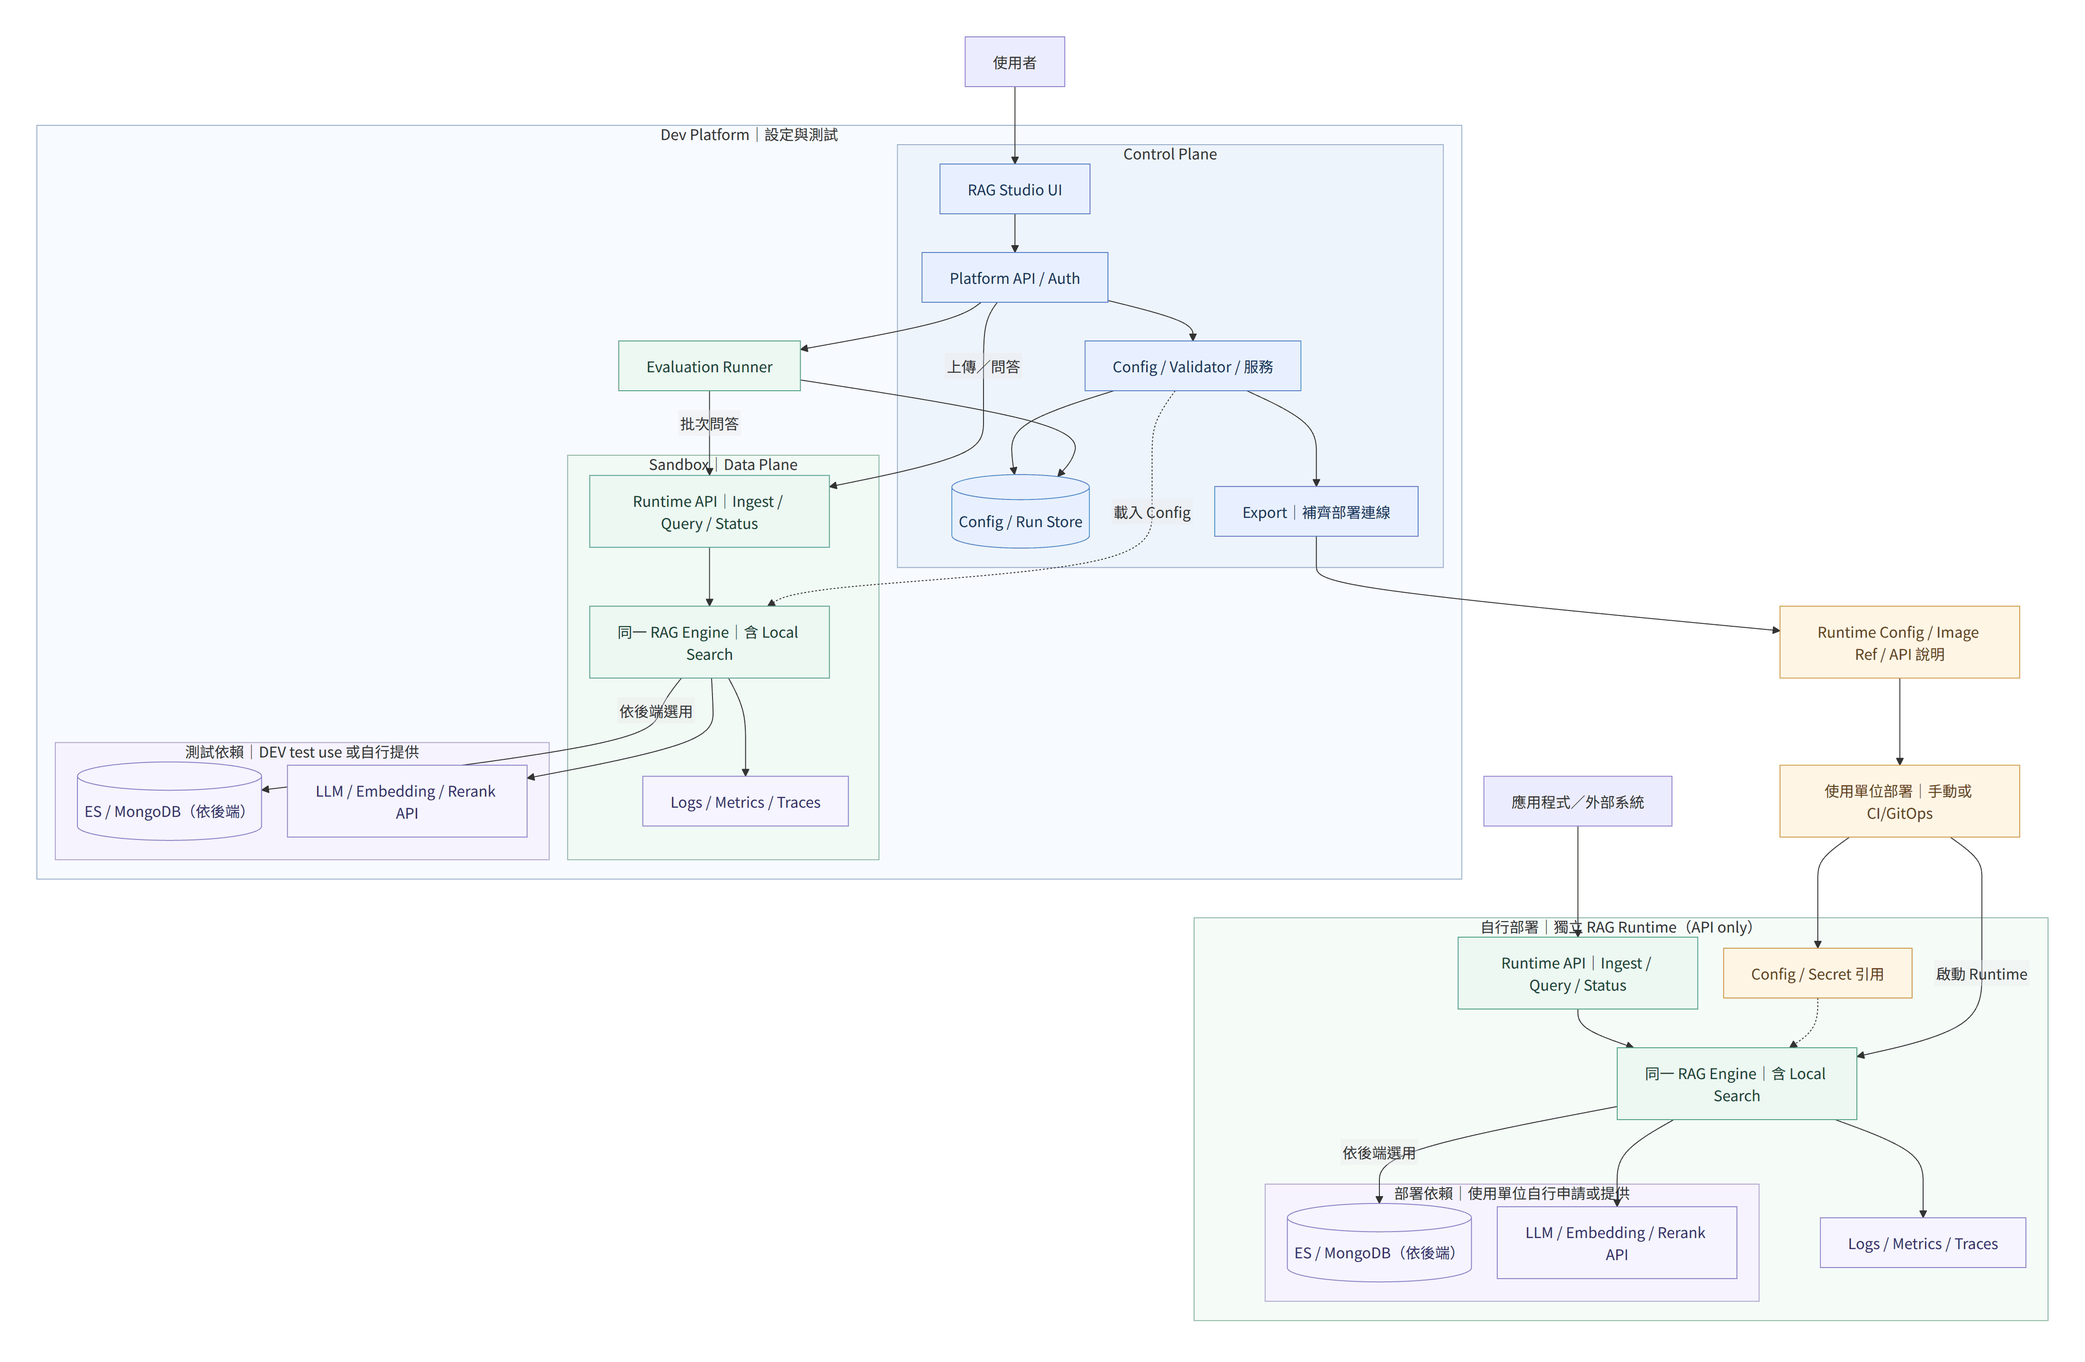
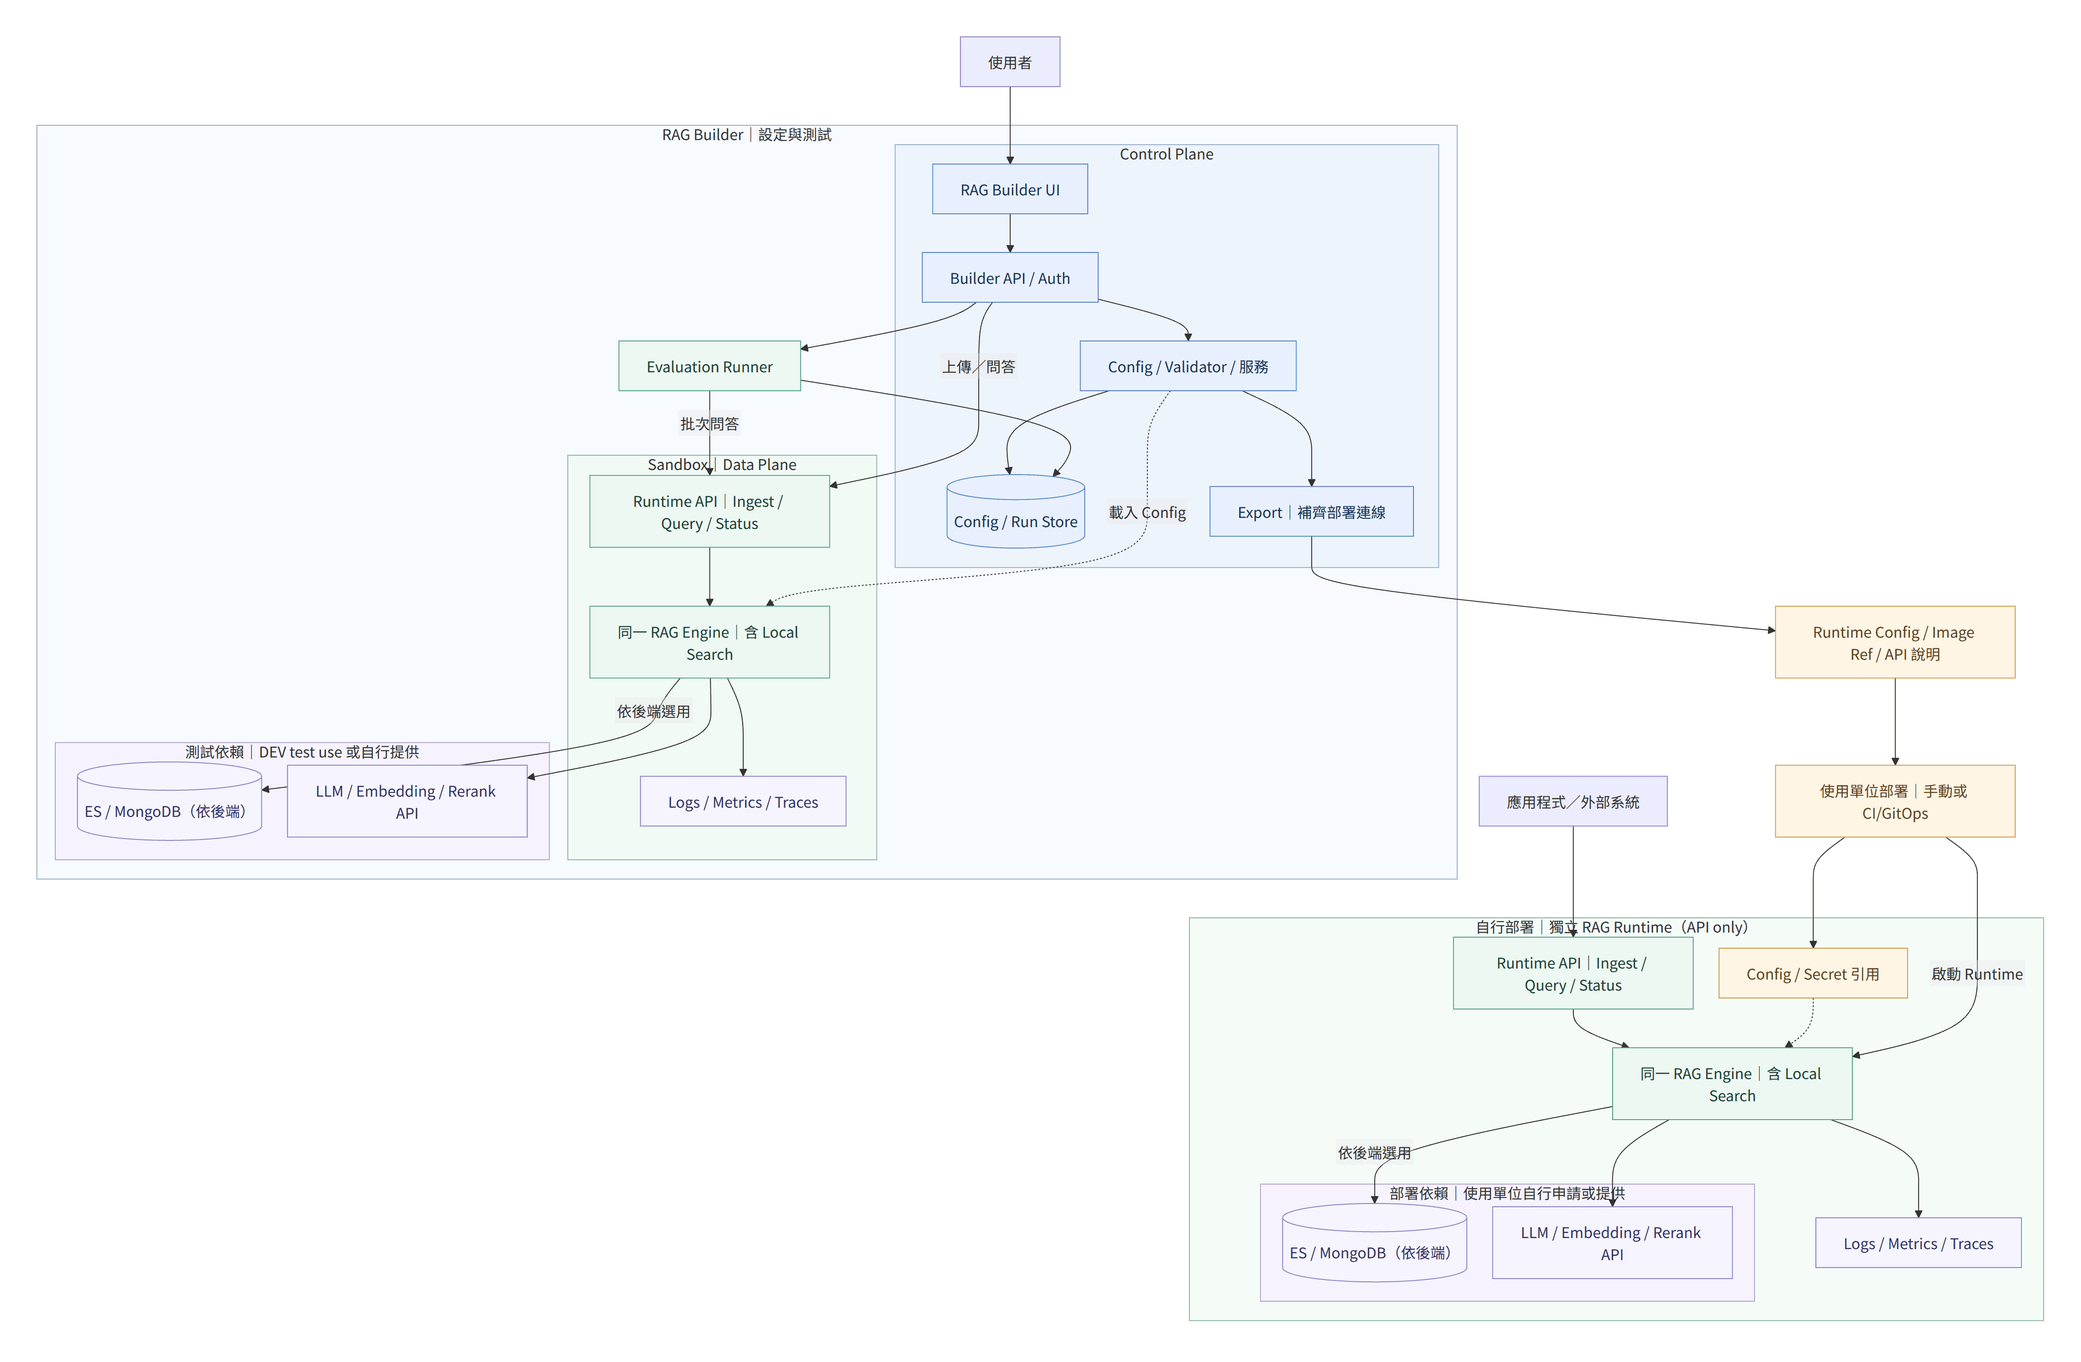
docs: unify product naming as RAG Builder across prototype and architecture

diff --git a/01_ui_prototype.html b/01_ui_prototype.html
@@ -1,10 +1,10 @@
 <!doctype html>
-<html lang="zh-Hant"><head><meta charset="utf-8"><meta name="viewport" content="width=device-width,initial-scale=1"><title>RAG Workspace · Config Prototype</title><style>
+<html lang="zh-Hant"><head><meta charset="utf-8"><meta name="viewport" content="width=device-width,initial-scale=1"><title>RAG Builder · UI Prototype</title><style>
 :root{--ink:#232738;--muted:#7b8193;--line:#e8eaf0;--accent:#6555d7;--bg:#f8f9fc}*{box-sizing:border-box}body{margin:0;font:14px/1.6 Inter,"Segoe UI","Microsoft JhengHei",sans-serif;color:var(--ink);background:var(--bg)}button,input,select,textarea{font:inherit}button{cursor:pointer}button:disabled{cursor:not-allowed;opacity:.45}button:focus-visible{outline:3px solid #b8aef6;outline-offset:3px}.sidebar{width:236px;position:fixed;inset:0 auto 0 0;background:white;border-right:1px solid var(--line);padding:32px 20px}.brand{display:flex;align-items:center;gap:10px;font-size:19px;font-weight:750;letter-spacing:-.6px;margin-bottom:50px}.mark{background:var(--accent);color:white;border-radius:10px;padding:4px 12px}.caption{font-size:10px;color:var(--muted);letter-spacing:1.5px;font-weight:700;margin:0 12px 16px}.group{border:0;background:none;color:#687083;display:flex;align-items:center;gap:12px;width:100%;text-align:left;padding:13px 12px;border-radius:8px;margin:5px 0}.group.active{background:#f0edff;color:#5a49ca;font-weight:650}.group .count{margin-left:auto;font-size:11px}.side-note{position:absolute;bottom:25px;left:32px;font-size:11px;color:#979cad}main{margin-left:236px;padding:0 48px 60px}header{height:104px;display:flex;justify-content:space-between;align-items:center;gap:20px;border-bottom:1px solid var(--line)}.crumb{color:var(--muted);font-size:12px}.btn{background:white;border:1px solid #dddfea;border-radius:8px;padding:10px 16px;color:#535a6e;font-weight:600}.primary{background:var(--accent);border-color:var(--accent);color:white;box-shadow:0 4px 10px #6555d71a}.primary:hover{background:#5747c6}.intro{margin:38px 0 28px}.intro h1{font-size:28px;letter-spacing:-.8px;margin:0 0 5px}.muted{color:var(--muted)}.cards{display:grid;grid-template-columns:repeat(3,minmax(0,1fr));gap:22px}.card{background:white;border:1px solid var(--line);border-radius:13px;padding:24px;transition:box-shadow .15s}.card:hover{box-shadow:0 6px 24px #32354b09}.cardtop{display:flex;align-items:center;justify-content:space-between}.system-icon{width:48px;height:48px;display:grid;place-items:center;background:#f0edff;color:var(--accent);border-radius:13px;font-size:24px}.status{font-size:10px;color:#7e879b;background:#f6f7fa;border-radius:20px;padding:4px 9px}.status.ready{color:#268472;background:#edf9f5}.card h2{font-size:17px;margin:21px 0 3px;overflow-wrap:anywhere}.meta{font-size:12px;color:var(--muted)}.actions{display:flex;gap:7px;margin-top:25px}.actions button{flex:1;border:1px solid #e6e7f0;background:white;color:#60677d;border-radius:7px;padding:8px 2px;font-size:11px}.actions button:hover{background:#f5f3ff;color:var(--accent)}.export{background:none;border:0;padding:14px 0 0;color:#9296a4;font-size:11px}.hint{font-size:11px;color:#9a9fb0;margin-top:30px}dialog{border:1px solid var(--line);border-radius:16px;width:min(1200px,94vw);max-height:90vh;padding:0;color:var(--ink);box-shadow:0 24px 100px #18213730}dialog::backdrop{background:#1a203b65;backdrop-filter:blur(3px)}.modalhead{padding:24px 30px;display:flex;align-items:center;justify-content:space-between;border-bottom:1px solid var(--line)}.modalhead h2{font-size:22px;margin:0}.close{border:0;background:#f5f6fa;border-radius:8px;font-size:22px;color:#7e8594;padding:0 10px}.modalbody{padding:26px 30px;background:#fafbfe}.modalfoot{padding:18px 30px;display:flex;justify-content:flex-end;gap:10px;border-top:1px solid var(--line)}.label{display:block;font-size:12px;font-weight:600;color:#646c82;margin:12px 0 6px}.control{width:100%;border:1px solid #dfe2eb;border-radius:8px;padding:10px 12px;background:white;color:var(--ink)}.control:focus{outline:2px solid #d5ceff}.builder{display:grid;grid-template-columns:minmax(0,1fr) 410px;gap:20px;margin-top:22px}.panel{background:white;border:1px solid var(--line);border-radius:11px;padding:20px}.panel h3{font-size:14px;margin:0 0 15px}.module-line{display:flex;flex-wrap:wrap;gap:8px}.module{border:1px solid #e1e4ed;background:white;border-radius:8px;padding:14px 12px;text-align:left;flex:1;min-width:110px;color:#4d566d}.module strong{font-size:12px;display:block}.module small{display:block;font-size:10px;margin-top:8px;color:#8790a3}.module.selected{border-color:var(--accent);background:#f6f3ff;color:var(--accent)}.pipeline+.pipeline{margin-top:18px}.notice{font-size:12px;padding:12px;border-radius:8px;background:#f2f0ff;color:#64588d;white-space:pre-line;margin-top:18px}.notice.error{background:#fff1ef;color:#af4a3b}.twocol{display:grid;grid-template-columns:1fr 1fr;gap:22px}.upload{border:1px dashed #cfd0e2;background:#faf9ff;padding:28px 20px;border-radius:9px;margin:16px 0}.result{white-space:pre-wrap;background:white;border:1px solid var(--line);padding:20px;border-radius:9px;min-height:170px;font-size:13px}.toast{position:fixed;bottom:25px;right:28px;background:#30334b;color:white;padding:12px 20px;border-radius:10px;display:none;z-index:10}.empty{padding:50px;border:1px dashed #daddE8;border-radius:12px;color:var(--muted)}@media(max-width:1250px){.cards{grid-template-columns:repeat(2,minmax(0,1fr))}}@media(max-width:850px){.sidebar{width:185px;padding:26px 12px}main{margin-left:185px;padding:0 22px}.cards,.builder,.twocol{grid-template-columns:1fr}.modalhead,.modalbody,.modalfoot{padding:20px}.brand{font-size:16px}.side-note{left:20px}}@media(max-width:550px){.sidebar{position:static;width:100%;padding:14px}.brand{margin:0 0 12px}.caption,.side-note{display:none}#groups{display:flex;overflow:auto}.group{white-space:nowrap;margin:0;width:auto}.count{display:none}main{margin:0;padding:0 16px}header{height:85px}.crumb{display:none}.intro{margin-top:24px}.modalhead h2{font-size:18px}}
 .control:disabled,.control[readonly]{background:#f0f1f6;color:#858a99;cursor:not-allowed}.control option:disabled{color:#9a9eac}.rule{font-size:11px;color:#817b98;margin:6px 0 10px}.demo-cases{margin-top:18px;font-size:12px;color:#7b8193}.demo-cases button{margin:8px 5px 0 0;border:1px solid #dddbea;background:white;border-radius:6px;padding:6px 10px;color:#64588d}.locked{margin-top:20px;border-top:1px solid var(--line);padding-top:12px}
 .builder{grid-template-columns:minmax(250px,1fr) minmax(380px,1.2fr);align-items:start}.module-line{gap:8px}.module{min-width:125px}.builder>.panel{min-width:0}.module small{overflow-wrap:anywhere}.cardlinks{display:flex;justify-content:space-between;gap:8px}.mapping{display:grid;grid-template-columns:minmax(0,1fr) 20px minmax(0,1fr) 38px;gap:6px;align-items:center;margin:10px 0}.mapping .btn{padding:8px}.check{display:flex;align-items:center;gap:8px;font-size:13px;margin:8px 0}.check input{accent-color:var(--accent)}.invalid{color:#ae473b}.preview{white-space:pre-wrap;overflow-wrap:anywhere;font:12px/1.7 ui-monospace,"Noto Sans TC","Microsoft JhengHei",monospace;background:#f5f6fa;border:1px solid var(--line);padding:14px;border-radius:8px;max-height:400px;overflow:auto}.chips{display:flex;gap:6px;flex-wrap:wrap;margin:8px 0}.chip{border:1px solid #ded9f7;background:#f7f4ff;color:#6555a7;border-radius:5px;padding:4px 7px;font-size:11px}.simple{width:100%;border-collapse:collapse}.simple td,.simple th{border:1px solid var(--line);padding:10px;text-align:left}h4{margin:22px 0 10px}summary{cursor:pointer;color:#665890}fieldset{border:1px solid var(--line);border-radius:9px;margin:16px 0;padding:16px}legend{font-weight:600}#createDialog{width:min(1320px,96vw)}.modalhead,.modalfoot{background:white}.modalfoot{position:sticky;bottom:0;z-index:2}.toptools{display:flex;justify-content:space-between;align-items:center;gap:14px;margin:16px 0}.assistant-panel{background:#f8f5ff;border:1px solid #ded6fb;border-radius:12px;padding:20px;margin-top:18px}.assistant-layout{display:grid;grid-template-columns:1fr 1fr;gap:16px}.assistant-panel[hidden]{display:none}.modalbody{min-width:0}.rule{line-height:1.7}input[type=file]{max-width:100%}#changeImpact{white-space:pre-line;margin-top:16px}.control{min-width:0}#helpDialog,#exportDialog{width:min(800px,94vw)}.toolbar{display:flex;gap:10px;flex-wrap:wrap}.contract{margin-top:18px}.module.selected{box-shadow:inset 3px 0 var(--accent)}@media(max-width:850px){.builder,.assistant-layout{grid-template-columns:1fr}.toptools{align-items:flex-start;flex-direction:column}}
 </style></head><body>
-<aside class="sidebar"><div class="brand"><span class="mark">r</span> RAG Workspace</div><div class="caption">WORKSPACES</div><nav id="groups" aria-label="Workspace groups"></nav><div class="side-note">UI Prototype · 示意資料<br>重新整理會重設所有操作</div></aside>
+<aside class="sidebar"><div class="brand"><span class="mark">r</span> RAG Builder</div><div class="caption">WORKSPACES</div><nav id="groups" aria-label="Workspace groups"></nav><div class="side-note">UI Prototype · 示意資料<br>重新整理會重設所有操作</div></aside>
 <main><header><div class="crumb">Workspaces / <span id="crumb"></span></div><button class="btn primary" onclick="openCreate()">＋ Create RAG System</button></header><div class="intro"><h1 id="groupTitle"></h1><div class="muted" id="groupDesc"></div></div><div class="cards" id="cards"></div><p class="hint">Build → Ingest → Inference → Evaluation → Export YAML；可隨時 Edit Config。</p></main>
 <dialog id="createDialog" aria-labelledby="createTitle"><div class="modalhead"><div><h2 id="createTitle">Create RAG System</h2><div class="muted" id="createGroup"></div></div><button class="close" aria-label="關閉" onclick="$('createDialog').close()">×</button></div><div class="modalbody"><label class="label" for="systemName">RAG System 名稱</label><input class="control" id="systemName" placeholder="例如：Maintenance RAG" maxlength="80"><div class="toptools"><details class="demo-cases"><summary>套用設定示範（重設草稿，保留名稱）</summary><button onclick="demoCase(1)">缺少全文索引</button><button onclick="demoCase(2)">Prompt 模板</button><button onclick="demoCase(3)">Local / Memory</button><button onclick="demoCase(4)">Top-K 卡控</button></details><div class="toolbar"><button class="btn" onclick="selectMod('llms')">⚙ LLM 服務設定</button><button class="btn" onclick="toggleHelper()">✦ AI 設定助手（模擬）</button></div></div>
 <aside class="assistant-panel" id="helperPanel" hidden><h3>AI 設定助手 · 模擬版</h3><div class="assistant-layout"><div><p id="helperChat" class="rule" role="status"></p><label class="label" for="helperSample">資料樣本（JSON／CSV／TXT／MD，≤ 1 MB）</label><input type="file" id="helperSample" accept=".json,.csv,.txt,.md" onchange="readSample()"><label class="label" for="helperRequest">描述你想調整的設定</label><textarea class="control" id="helperRequest" rows="4" placeholder="這份資料的 content 是原文、abstract 是摘要；改用 Local Search"></textarea><button class="btn" style="margin-top:12px" onclick="propose()">產生建議（模擬）</button></div><div><h4>套用前確認變更</h4><pre class="preview" id="helperChanges"></pre><button class="btn primary" id="applySuggestion" disabled onclick="applySuggestion()">套用到草稿</button><p class="rule">本機規則示範，無 LLM 連線；樣本不會上傳或自動 Ingestion。</p></div></div></aside>

diff --git a/docs/04_module_methods_io_contracts.md b/docs/04_module_methods_io_contracts.md
@@ -1,4 +1,4 @@
-# RAG Platform — 模組目的、方法與 I/O Contract
+# RAG Builder — 模組目的、方法與 I/O Contract
 
 > **後續設計更新**：請先閱讀 [資料契約與索引設計討論結論（v0.5）](05_data_contracts_search_design.md)。其中 ParsedDocument 五個頂層 key、Chunk 六個頂層 key（含 vectors）、多欄位設定、搜尋後端，以及第 13–14 節的共用 LLM、Query Prompt、模組驗證標籤、Token Chunking、DEV／自訂服務、多 Query、Rerank API 與 Generation 模板設計取代本文相關舊提案；本文保留其餘模組契約與歷史設計，並非已遷移完成的實作規格。
 
@@ -13,7 +13,7 @@
 - Evaluation：獨立批次流程，可執行 Retrieval-only 或完整 RAG。
 - 全文 BM25 模式可略過 Embedding；None 類模組採明確的 pass-through，不能讓 I/O 結構任意改變。
 - 每個模組分開設定 **Method（方法）／Implementation（實作或 Provider）／Parameters（參數）**。例如 Hybrid 是方法，Elasticsearch 是後端，Top-K 是參數。
-- Platform Contract 為穩定邊界；Adapter 負責轉換 LangChain Runnable、Document 或自訂 Function／Class。不能把框架內部物件直接當作對外持久化格式。
+- Module Contract 為穩定邊界；Adapter 負責轉換 LangChain Runnable、Document 或自訂 Function／Class。不能把框架內部物件直接當作對外持久化格式。
 - Config、業務輸入與執行 Context 分離；Python Class／Type Hint 不會自動提供完整 Runtime Validation。
 - 下文的「MVP」是建議範圍；後續方法是候選，尚未承諾全部開發。
 
@@ -364,14 +364,14 @@ supports: {async: true, batch: true, streaming: false}
 - 任意使用者程式不得直接在共用 API Process 中 exec；隔離執行與受控資料／Secret 存取屬正式實作前置條件。
 - Config 固定 Plugin Version；新增程式與依賴時建置版本化 Runtime Image。部署 YAML 鎖定 Image Digest，不能只匯出 Class 名稱而漏掉實作。
 
-### 8.3 Framework／Platform 分工
+### 8.3 Framework／RAG Builder 分工
 
 | 層 | 建議責任 |
 |---|---|
 | LangChain | 可重用模型、Retriever、Loader Adapter，以及線性 Runnable 組合 |
 | LangGraph | 有必要時處理分支、狀態與 checkpoint；不要求每個模組獨立建 Graph |
 | Pydantic | Config／Input／Output 的顯式 Runtime Validation |
-| 自建 Platform Engine | Registry、Compiler、Compatibility、Job Lifecycle、Execution Policy、版本及隔離 |
+| RAG Builder／RAG Engine | Registry、Compiler、Compatibility、Job Lifecycle、Execution Policy、版本及隔離 |
 | Observability | Langfuse＋OpenTelemetry 為候選方向，尚未定案；先定義一致 trace_id/module_id/run_id |
 
 Queue、重試、DLQ、冪等 Indexing 與恢復語意不能只靠框架名稱保證。MVP 先固定流程；使用者 UI 維持 Group／RAG System 卡片與操作彈窗，不把這些後端機制全部暴露成頁面。
@@ -404,3 +404,4 @@ Evaluation 提供標註 ID 的 Recall@K／MRR、Judge 型 Answer Correctness／F
 - Qdrant Hybrid Queries：https://qdrant.tech/documentation/search/hybrid-queries/
 
 這些資料作方法與整合參考；本文的 Object、ModuleResult、Registry 與 API 字段均為平台自己的提案。
+

diff --git a/README.md b/README.md
@@ -1,10 +1,12 @@
-# RAG Platform
+# RAG Builder
 
-Config-driven RAG System Factory 設計討論專案。
+Config-driven RAG System 建立與測試平台。
 
 本專案規劃透過 UI 設定模組化 RAG、執行 Ingestion / Inference 測試、QA Evaluation，以及匯出 Kubernetes 部署設定。
 
 目前為架構提案與模擬原型，尚未實作可部署的 RAG Engine。
+
+**名詞**：RAG Builder 是開發平台；RAG System 是使用者建立的個別系統；RAG Runtime 是可獨立部署的 API 執行服務；RAG Engine 是其 Pipeline 核心。
 
 ## 設計文件
 
@@ -13,7 +15,7 @@ Config-driven RAG System Factory 設計討論專案。
 - [模組目的、方法與 I/O Contract（v0.2 草案；資料契約見 v0.5）](docs/04_module_methods_io_contracts.md)：十個模組的輸入輸出、共用資料結構、相依卡控、自訂 Python 與 LangChain／LangGraph 分工；區分 MVP 與後續候選方法。
 
 - [UI Prototype](01_ui_prototype.html)：下載後以瀏覽器開啟，操作與指標均為模擬。
-- [Architecture Proposal v0.2](03_architecture_proposal.md)：Dev Platform／獨立 Runtime 分工、共用 Engine／API、外部服務環境設定、模組契約與 MVP 規劃。
+- [Architecture Proposal v0.2](03_architecture_proposal.md)：RAG Builder／獨立 Runtime 分工、共用 Engine／API、外部服務環境設定、模組契約與 MVP 規劃。
 - [L1 使用流程圖](diagrams/01_user_system_l1.png) · [Mermaid 原始檔](diagrams/01_user_system_l1.mmd)
 - [Infra 架構圖](diagrams/02_infra_architecture.png) · [Mermaid 原始檔](diagrams/02_infra_architecture.mmd)
 
@@ -53,4 +55,5 @@ Config-driven RAG System Factory 設計討論專案。
 
 
 共用 LLM／Prompt 另經 Chromium 實測：新增、改名、選擇、刪除、API 設定、Prompt 即時驗證與預覽、共用匯出資源及手機寬度。
+
 
